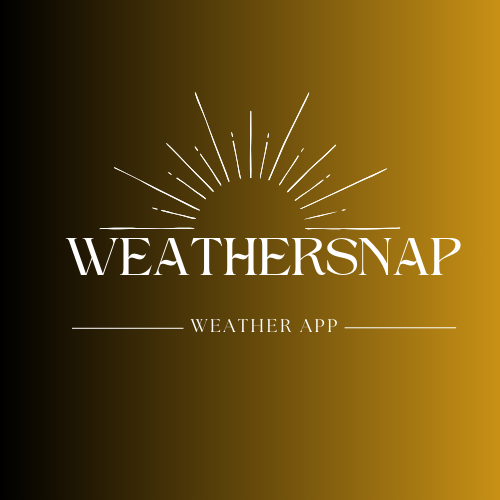
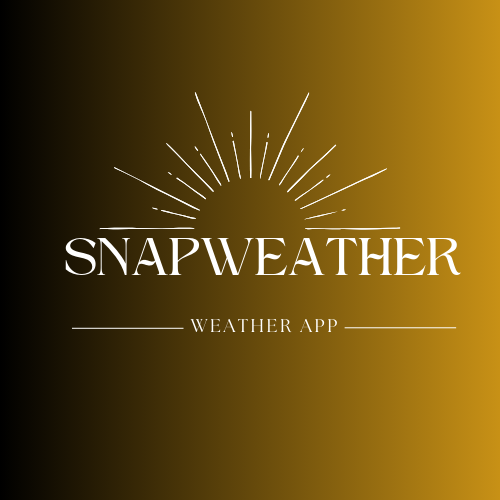
update: app name

Changed region(s): [[0.12, 0.45, 0.93, 0.57]]

diff --git a/public/index.html b/public/index.html
@@ -28,7 +28,7 @@
       work correctly both with client-side routing and a non-root public URL.
       Learn how to configure a non-root public URL by running `npm run build`.
     -->
-    <title>WeatherSnap</title>
+    <title>SnapWeather</title>
   </head>
   <body>
     <noscript>You need to enable JavaScript to run this app.</noscript>
